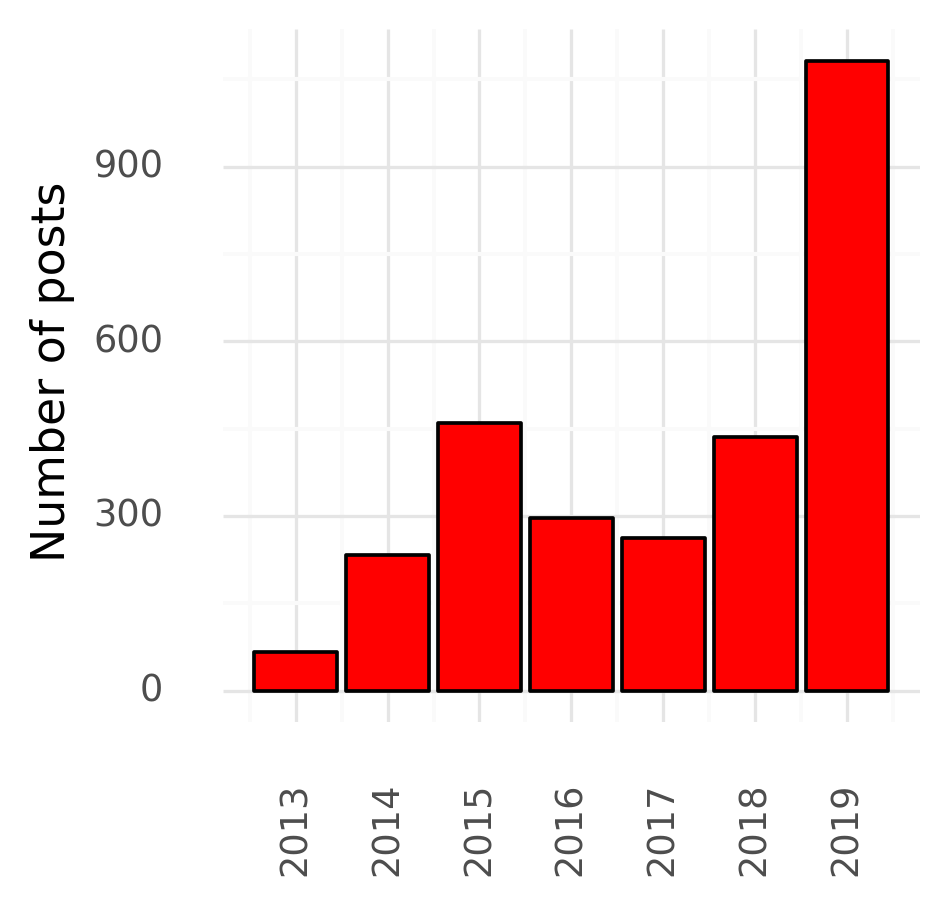
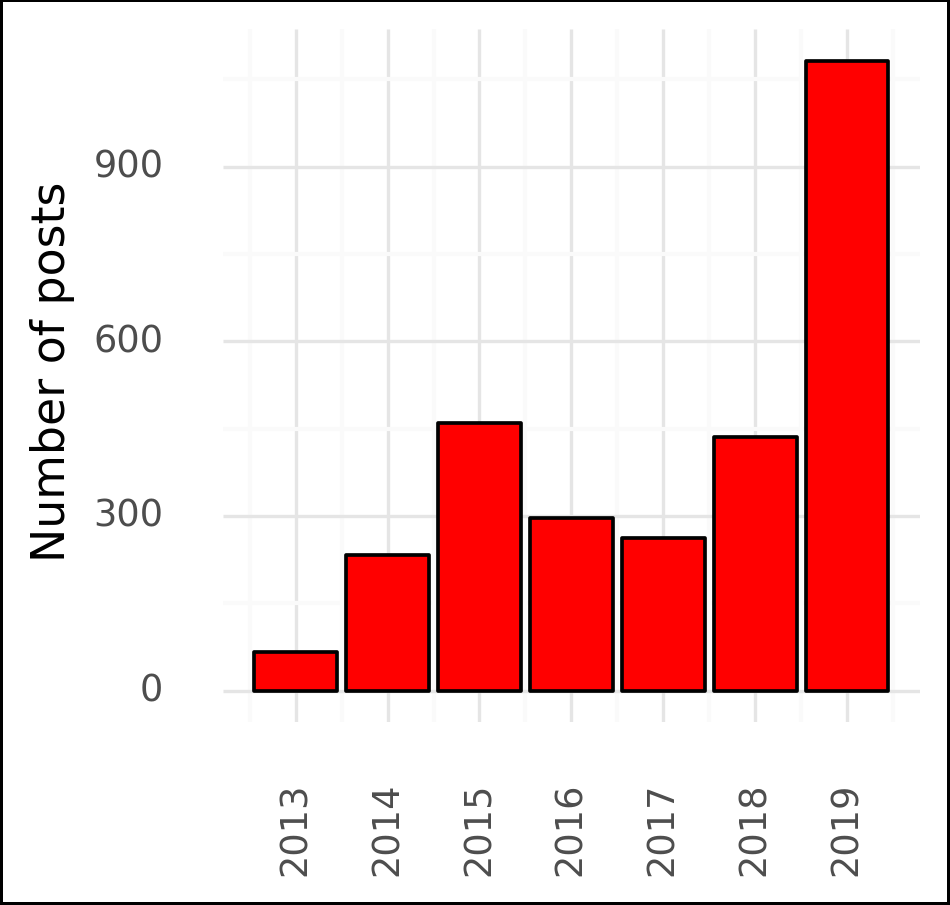
edited image

Changed region(s): [[0.0, 0.0, 1.0, 1.0]]

diff --git a/doc/blogpost.md b/doc/blogpost.md
@@ -21,7 +21,7 @@ I cleaned the data and restricted subsequent analysis on posts published between
 
 Here are the number of posts published on the EA Forum each year:
 
-![](https://raw.githubusercontent.com/anishazaveri/austen_plots/master/example/sensitivity_output/austen_plot.png)
+![](https://raw.githubusercontent.com/anishazaveri/ea_forum/master/out/images/posts_year.png)
 
 
 
